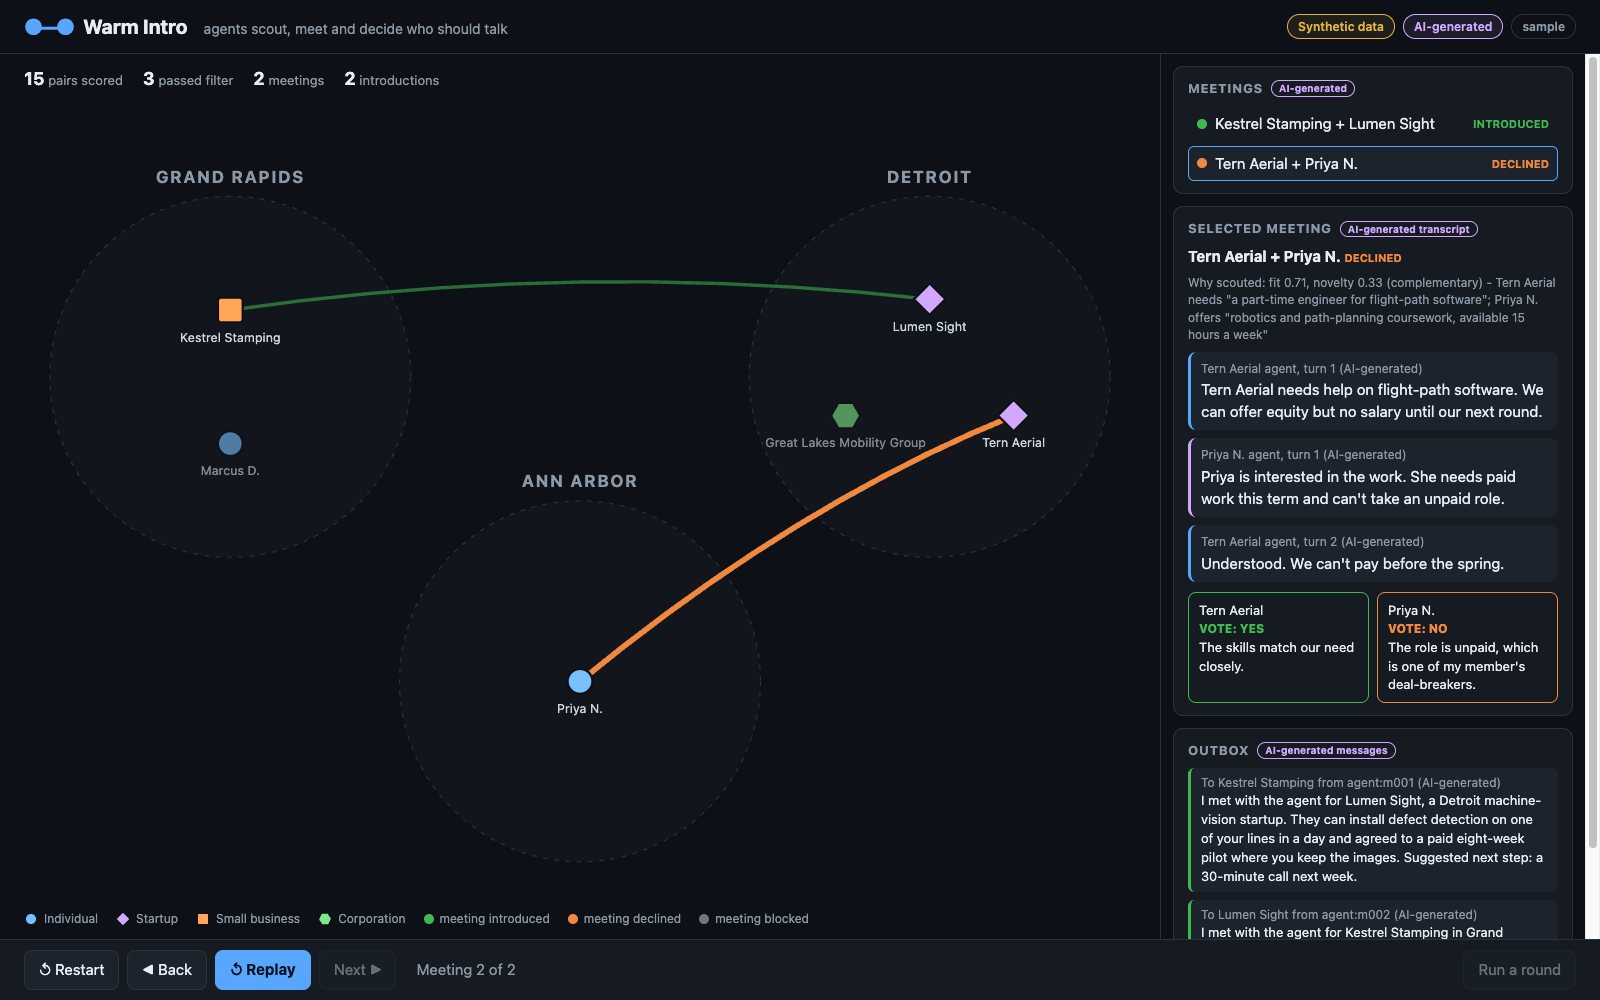
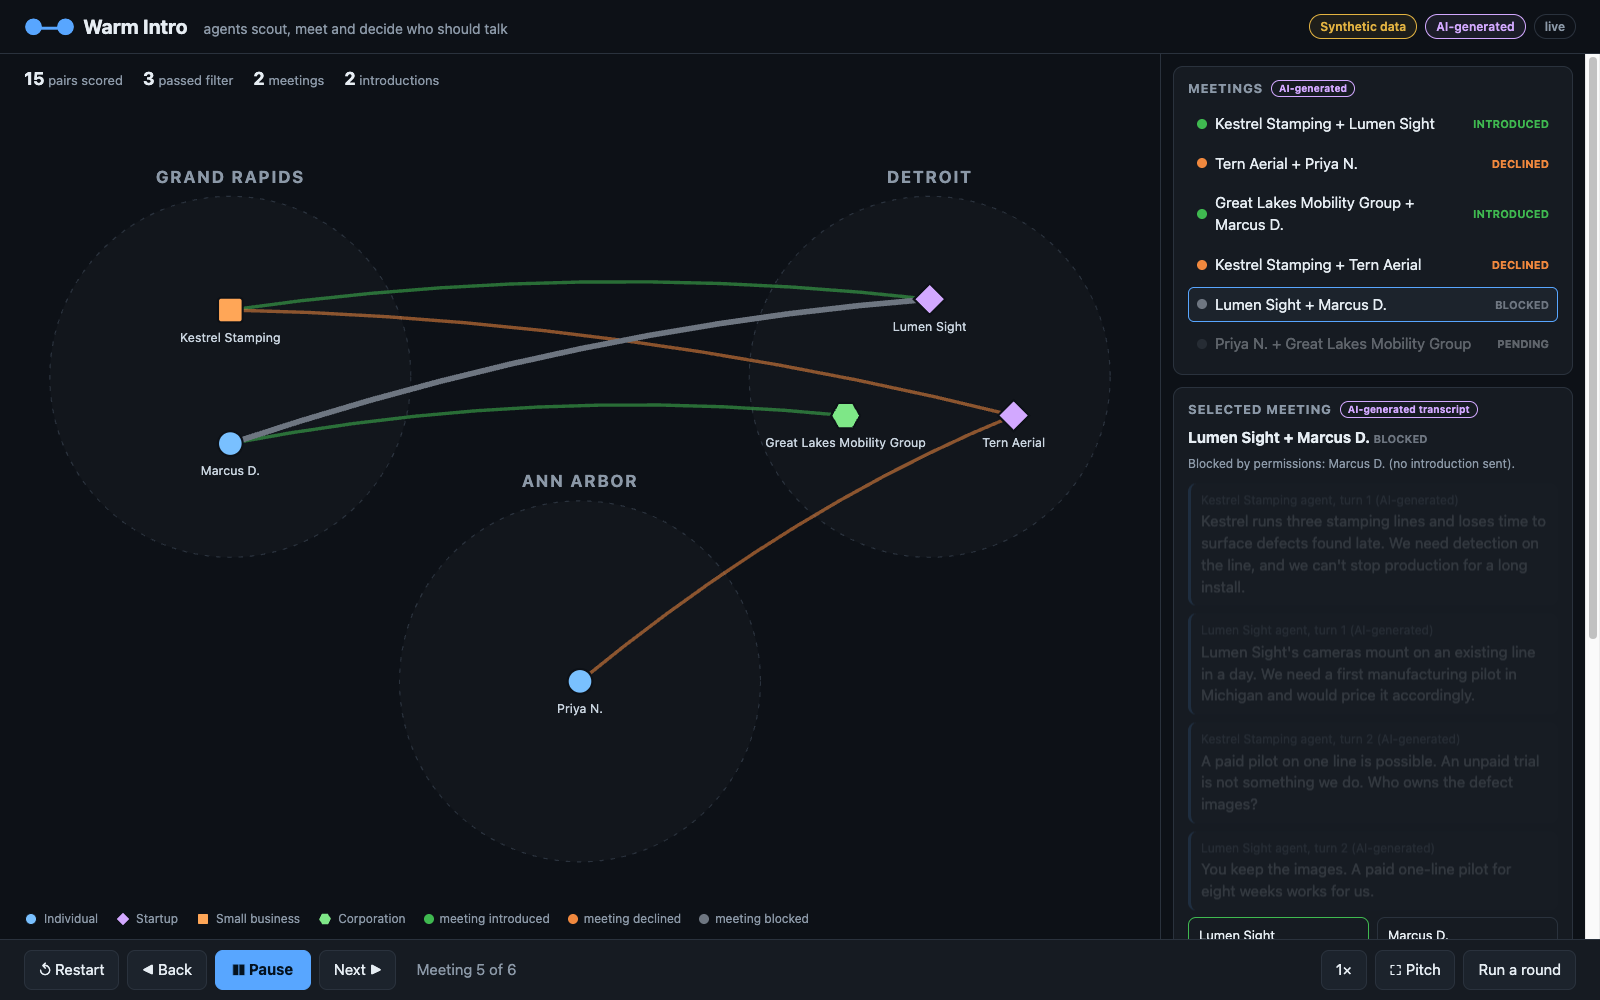
J2/J6/J7: live polling, before/after weights panel, speed toggle and pitch mode
Agent: jesse-Jessechg-44

diff --git a/web/app.js b/web/app.js
@@ -20,6 +20,8 @@
   };
   var live = /[?&]live=1/.test(location.search);
   var run = null, shown = 0, selected = -1, timer = null, playing = false, busy = false;
+  var speed = 1, userPaused = false, pollTimer = null, pollBusy = false, roundBase = null, lastFeedback = null;
+  var STEP_MS = 1800, DRAW_MS = 1400, SPEEDS = [0.5, 1, 2];
   var pos = {}, byId = {};
   var $ = function (id) { return document.getElementById(id); };
 
@@ -58,15 +60,26 @@
       $('btnRound').disabled = true;
       return loadSample();
     }) : loadSample();
-    p.then(function (r) { setRun(r); play(); });
+    p.then(function (r) {
+      setRun(r); play();
+      if (live && run.status === 'running') startPolling();
+    });
   }
 
-  function setRun(r) {
-    run = r && typeof r === 'object' ? r : {};
-    run.members = arr(run.members); run.meetings = arr(run.meetings); run.introductions = arr(run.introductions);
+  function normalize(r) {
+    r = r && typeof r === 'object' ? r : {};
+    r.members = arr(r.members); r.meetings = arr(r.meetings); r.introductions = arr(r.introductions);
+    return r;
+  }
+  function index() {
     byId = {};
     run.members.forEach(function (m) { byId[m.id] = m; });
-    layout(); shown = 0; selected = -1;
+  }
+  function isRunning() { return busy || run.status === 'running'; }
+  function setRun(r) {
+    run = normalize(r);
+    lastFeedback = null; userPaused = false;
+    index(); layout(); shown = 0; selected = -1;
     if (!run.members.length) banner('This run has no members to show.');
     render();
   }
@@ -119,7 +132,7 @@
       var len = Math.hypot(b.x - a.x, b.y - a.y) * 1.2;
       var g = add(lines, el('g', {}, null, 1));
       var p = add(g, el('path', {d: d, stroke: col, 'stroke-width': i === selected ? 5 : 3, class: 'mline' + (i === animateIdx ? ' draw' : ''), opacity: selected >= 0 && i !== selected ? 0.55 : 1}, null, 1));
-      if (i === animateIdx) p.style.setProperty('--len', len);
+      if (i === animateIdx) { p.style.setProperty('--len', len); p.style.setProperty('--dur', (DRAW_MS / speed / 1000) + 's'); }
       var hit = add(g, el('path', {d: d, class: 'hit'}, null, 1));
       hit.addEventListener('click', function () { select(i); });
       var t = el('title', {}, nameOf(m.a) + ' + ' + nameOf(m.b) + ': ' + m.result, 1); hit.appendChild(t);
@@ -170,6 +183,7 @@
     var t = add(box, el('div', {}, nameOf(m.a) + ' + ' + nameOf(m.b) + '  '));
     t.style.fontWeight = '700';
     var rs = add(t, el('span', {class: 'res'}, r.label)); rs.style.color = r.color;
+    if (arr(m.blocked).length) add(box, el('div', {class: 'evidence'}, 'Blocked by permissions: ' + m.blocked.map(nameOf).join(', ') + ' (no introduction sent).'));
     var cand = m.candidate || (run.candidates || []).filter(function (c) { return c.a === m.a && c.b === m.b; })[0];
     if (cand) {
       var ev = (cand.evidence || [])[0];
@@ -182,6 +196,7 @@
       add(d, el('div', {}, tn.text || ''));
     });
     var vs = add(box, el('div', {class: 'votes'}));
+    var oc = null;
     [m.a, m.b].forEach(function (id) {
       var v = (m.votes || {})[id];
       var d = add(vs, el('div', {class: 'vote ' + (v ? v.vote : '')}));
@@ -189,7 +204,54 @@
       add(d, el('div', {class: 'v'}, v ? 'Vote: ' + v.vote : 'No vote'));
       if (v) add(d, el('div', {}, v.reason || ''));
     });
+    if (live && m.result === 'introduced') {
+      oc = add(box, el('div', {class: 'outcomes'}));
+      add(oc, el('div', {class: 'evidence'}, 'Record an outcome (updates the weights):'));
+      ['pilot', 'hire', 'partnership', 'no_follow_up'].forEach(function (o) {
+        var b = add(oc, el('button', {class: 'oc'}, o.replace('_', ' ')));
+        b.addEventListener('click', function () { sendFeedback(m, o, b); });
+      });
+    }
   }
+  function sendFeedback(m, outcome, btn) {
+    btn.disabled = true;
+    fetch(API + '/feedback', {method: 'POST', headers: {'Content-Type': 'application/json'}, body: JSON.stringify({meeting_id: m.id, outcome: outcome})})
+      .then(function (r) { if (!r.ok) throw new Error('HTTP ' + r.status); return r.json(); })
+      .then(function (f) { lastFeedback = {meeting: m, outcome: outcome, before: f.weights_before, after: f.weights_after}; renderWeights(); banner(''); })
+      .catch(function (e) { btn.disabled = false; banner('Could not record the outcome (' + e.message + ').'); });
+  }
+  // J6: before/after weights (CONTRACTS: key "kind|label", multiplier clamped 0.5-1.5, missing = 1.0)
+  function renderWeights() {
+    var card = $('weightsCard'), box = $('weights'); box.textContent = '';
+    var before = lastFeedback ? lastFeedback.before : run.weights_before;
+    var after = lastFeedback ? lastFeedback.after : run.weights_after;
+    before = before && typeof before === 'object' ? before : {};
+    after = after && typeof after === 'object' ? after : {};
+    var keys = Object.keys(before).concat(Object.keys(after).filter(function (k) { return !(k in before); }));
+    card.hidden = !keys.length;
+    if (!keys.length) return;
+    add(box, el('div', {class: 'evidence'}, lastFeedback
+      ? 'After outcome "' + lastFeedback.outcome.replace('_', ' ') + '" for ' + nameOf(lastFeedback.meeting.a) + ' + ' + nameOf(lastFeedback.meeting.b) + '. Higher weight means the scout favors that kind of pairing.'
+      : 'Scout weights before and after this round\'s recorded outcomes. Higher weight means the scout favors that kind of pairing.'));
+    keys.sort(function (a, b) {
+      var da = Math.abs(w(after, a) - w(before, a)), db = Math.abs(w(after, b) - w(before, b));
+      return db - da || (a < b ? -1 : 1);
+    });
+    keys.forEach(function (k) {
+      var b = w(before, k), a = w(after, k), d = a - b;
+      var row = add(box, el('div', {class: 'wrow' + (Math.abs(d) > 0.0005 ? ' changed' : '')}));
+      add(row, el('div', {class: 'wkey'}, k.replace('|', ' / ')));
+      var bars = add(row, el('div', {class: 'wbars'}));
+      [['before', b], ['after', a]].forEach(function (p) {
+        var t = add(bars, el('div', {class: 'wbar ' + p[0]})), f = add(t, el('i'));
+        f.style.width = Math.max(2, Math.min(100, (p[1] - 0.5) * 100)) + '%';
+        if (p[0] === 'after' && d) f.style.background = d > 0 ? 'var(--ok)' : 'var(--bad)';
+      });
+      var num = add(row, el('div', {class: 'wnum'}, b.toFixed(2) + ' \u2192 ' + a.toFixed(2) + (d ? '  (' + (d > 0 ? '+' : '') + d.toFixed(2) + ')' : '  (unchanged)')));
+      if (d) num.style.color = d > 0 ? 'var(--ok)' : 'var(--bad)';
+    });
+  }
+  function w(o, k) { return typeof o[k] === 'number' ? o[k] : 1; }
   function renderOutbox() {
     var box = $('outbox'); box.textContent = '';
     var visible = {};
@@ -203,8 +265,10 @@
     });
   }
   function renderProgress() {
-    $('progress').textContent = 'Meeting ' + shown + ' of ' + run.meetings.length;
-    $('btnPlay').innerHTML = playing ? '&#10074;&#10074; Pause' : (shown >= run.meetings.length && shown > 0 ? '&#8634; Replay' : '&#9654; Play');
+    $('progress').textContent = 'Meeting ' + shown + ' of ' + run.meetings.length + (isRunning() ? '+' : '');
+    $('runInd').hidden = !(pollTimer || busy);
+    $('btnSpeed').textContent = speed + '\u00d7';
+    $('btnPlay').innerHTML = playing ? '&#10074;&#10074; Pause' : (shown >= run.meetings.length && shown > 0 && !isRunning() ? '&#8634; Replay' : '&#9654; Play');
     $('btnBack').disabled = shown === 0;
     $('btnFwd').disabled = shown >= run.meetings.length;
     $('btnRestart').disabled = shown === 0 && !playing;
@@ -212,16 +276,16 @@
     if (busy) $('btnRound').disabled = true; else if (live && !/unavailable/.test($('banner').textContent)) $('btnRound').disabled = false;
   }
   function render(animateIdx) {
-    renderStats(); renderLegend(); renderMap(animateIdx); renderList(); renderDetail(); renderOutbox(); renderProgress();
+    renderStats(); renderLegend(); renderMap(animateIdx); renderList(); renderDetail(); renderOutbox(); renderWeights(); renderProgress();
   }
 
   // ---- replay ----
   function select(i) { if (i >= shown) shown = i + 1; selected = i; render(); }
   function stop() { playing = false; clearInterval(timer); timer = null; }
   function forward() {
-    if (shown >= run.meetings.length) { stop(); render(); return; }
+    if (shown >= run.meetings.length) { if (!isRunning()) stop(); render(); return; }
     shown++; selected = shown - 1; render(shown - 1);
-    if (shown >= run.meetings.length) stop(), renderProgress();
+    if (shown >= run.meetings.length && !isRunning()) stop(), renderProgress();
   }
   function back() { if (shown > 0) { shown--; selected = shown - 1; render(); } }
   function play() {
@@ -229,30 +293,78 @@
     if (!run.meetings.length) { render(); return; }
     if (shown >= run.meetings.length) { shown = 0; selected = -1; }
     playing = true; render();
-    timer = setInterval(forward, 3200);
+    userPaused = false;
+    timer = setInterval(forward, STEP_MS / speed);
     if (shown === 0) forward();
   }
-  function restart() { stop(); shown = 0; selected = -1; render(); }
+  function setSpeed() {
+    speed = SPEEDS[(SPEEDS.indexOf(speed) + 1) % SPEEDS.length];
+    if (playing) { clearInterval(timer); timer = setInterval(forward, STEP_MS / speed); }
+    renderProgress();
+  }
+  function restart() { stop(); userPaused = true; shown = 0; selected = -1; render(); }
+
+  // ---- live polling (backend rewrites runs/latest after each meeting; status running|complete) ----
+  function startPolling() { if (!pollTimer) { pollTimer = setInterval(pollOnce, 1500); renderProgress(); } }
+  function stopPolling() { clearInterval(pollTimer); pollTimer = null; renderProgress(); }
+  function pollOnce() {
+    if (pollBusy) return;
+    pollBusy = true;
+    loadLive().then(function (r) { pollBusy = false; applyUpdate(r, false); }, function () { pollBusy = false; });
+  }
+  function applyUpdate(r, final) {
+    r = normalize(r);
+    // While a round is starting, latest still holds the previous run: ignore it.
+    if (busy && !final && roundBase !== null && r.run_id === roundBase) return;
+    if (r.run_id && run.run_id && r.run_id !== run.run_id) { setRun(r); play(); }
+    else {
+      var grew = r.members.length !== run.members.length;
+      run = r;
+      if (grew) { index(); layout(); }
+      if (!playing && !userPaused && shown < run.meetings.length) {
+        playing = true; timer = setInterval(forward, STEP_MS / speed);
+      }
+      render();
+    }
+    if (!busy && run.status !== 'running') stopPolling();
+  }
 
   function runRound() {
     if (!live || busy) return;
-    busy = true; stop(); renderProgress(); banner('');
+    busy = true; stop(); roundBase = run.run_id || null; renderProgress(); banner(''); startPolling();
     fetch(API + '/round', {method: 'POST', headers: {'Content-Type': 'application/json'}, body: '{}'})
       .then(function (r) { if (!r.ok) throw new Error('HTTP ' + r.status); return r.json(); })
       .then(function () { return loadLive(); })
-      .then(function (r) { busy = false; setRun(r); play(); })
-      .catch(function (e) { busy = false; banner('Could not run a round (' + e.message + '). Is the API running on ' + API + '?'); render(); });
+      .then(function (r) { busy = false; applyUpdate(r, true); })
+      .catch(function (e) { busy = false; stopPolling(); banner('Could not run a round (' + e.message + '). Is the API running on ' + API + '?'); render(); });
   }
 
-  $('btnPlay').addEventListener('click', function () { playing ? (stop(), render()) : play(); });
-  $('btnFwd').addEventListener('click', function () { stop(); forward(); render(); });
-  $('btnBack').addEventListener('click', function () { stop(); back(); });
+  $('btnPlay').addEventListener('click', function () { playing ? (userPaused = true, stop(), render()) : play(); });
+  $('btnSpeed').addEventListener('click', setSpeed);
+  $('btnPitch').addEventListener('click', togglePitch);
+  // Pitch mode hides the chrome; real fullscreen where the browser allows it, else just the layout.
+  function togglePitch() {
+    var on = !document.body.classList.contains('pitch');
+    document.body.classList.toggle('pitch', on);
+    var d = document.documentElement;
+    try {
+      if (on && d.requestFullscreen) d.requestFullscreen().catch(function () {});
+      else if (!on && document.fullscreenElement && document.exitFullscreen) document.exitFullscreen();
+    } catch (e) { /* layout-only fallback */ }
+  }
+  document.addEventListener('fullscreenchange', function () {
+    if (!document.fullscreenElement) document.body.classList.remove('pitch');
+  });
+  $('btnFwd').addEventListener('click', function () { userPaused = true; stop(); forward(); render(); });
+  $('btnBack').addEventListener('click', function () { userPaused = true; stop(); back(); });
   $('btnRestart').addEventListener('click', restart);
   $('btnRound').addEventListener('click', runRound);
   document.addEventListener('keydown', function (e) {
     if (e.key === ' ') { e.preventDefault(); $('btnPlay').click(); }
     else if (e.key === 'ArrowRight') $('btnFwd').click();
     else if (e.key === 'ArrowLeft') $('btnBack').click();
+    else if (e.key === 'f' || e.key === 'F') togglePitch();
+    else if (e.key === 'Escape' && document.body.classList.contains('pitch')) togglePitch();
   });
   init();
 })();

diff --git a/web/style.css b/web/style.css
@@ -55,7 +55,26 @@ button.primary{background:var(--accent);color:#04121f;border-color:var(--accent)
 .hubname{fill:#8b98a7;font-size:15px;font-weight:700;letter-spacing:.1em;text-transform:uppercase}
 .mname{fill:#c9d4df;font-size:11px;text-anchor:middle}
 .mline{fill:none;stroke-linecap:round}
-.mline.draw{stroke-dasharray:var(--len);stroke-dashoffset:var(--len);animation:drawl .9s ease forwards}
+.mline{transition:stroke-width .25s,opacity .25s}
+.mline.draw{stroke-dasharray:var(--len);stroke-dashoffset:var(--len);animation:drawl var(--dur,1.4s) cubic-bezier(.4,0,.2,1) forwards}
 @keyframes drawl{to{stroke-dashoffset:0}}
 .hit{stroke:transparent;stroke-width:16;fill:none;cursor:pointer}
 @media (max-width:900px){main{grid-template-columns:1fr}aside{border-left:0}body{height:auto}}
+
+.runind{color:var(--accent);font-size:13px;margin-left:8px;display:inline-flex;align-items:center;gap:6px}
+.runind i{width:8px;height:8px;border-radius:50%;background:var(--accent);animation:pulse 1s ease-in-out infinite}
+@keyframes pulse{50%{opacity:.25}}
+.outcomes{margin-top:10px;display:flex;flex-wrap:wrap;gap:6px;align-items:center}
+.outcomes .evidence{width:100%;margin:0}
+button.oc{padding:4px 10px;font-size:12px}
+.wrow{margin:8px 0}
+.wkey{font-size:12px;color:var(--text)}
+.wbars{display:flex;flex-direction:column;gap:2px;margin:3px 0}
+.wbar{height:5px;background:var(--panel2);border-radius:3px;position:relative}
+.wbar i{display:block;height:100%;border-radius:3px;background:var(--muted)}
+.wbar.after i{background:var(--accent)}
+.wnum{font-size:12px;color:var(--muted);font-variant-numeric:tabular-nums}
+body.pitch header,body.pitch .controls,body.pitch .banner{display:none}
+body.pitch main{grid-template-columns:minmax(0,1fr) 400px}
+body.pitch::after{content:"Pitch mode - press f or Esc to exit";position:fixed;right:26px;bottom:8px;font-size:11px;color:var(--muted);opacity:.7}
+.runind[hidden]{display:none}

diff --git a/web/index.html b/web/index.html
@@ -25,6 +25,7 @@
   <aside>
     <div class="card"><h2>Meetings <span class="ai-tag">AI-generated</span></h2><ol id="meetingList" class="mlist"></ol></div>
     <div class="card grow" id="detail"></div>
+    <div class="card" id="weightsCard" hidden><h2>Scout weights <span class="ai-tag">before / after</span></h2><div id="weights"></div></div>
     <div class="card"><h2>Outbox <span class="ai-tag">AI-generated messages</span></h2><div id="outbox"></div></div>
   </aside>
 </main>
@@ -34,7 +35,10 @@
   <button id="btnPlay" class="primary" title="Play / pause">&#9654; Play</button>
   <button id="btnFwd" title="Step forward">Next &#9654;</button>
   <span id="progress" class="progress"></span>
+  <span id="runInd" class="runind" hidden><i></i> running&hellip;</span>
   <span class="spacer"></span>
+  <button id="btnSpeed" title="Playback speed">1&times;</button>
+  <button id="btnPitch" title="Full-screen pitch mode (f)">&#9974; Pitch</button>
   <button id="btnRound" title="Run a round (live mode only)">Run a round</button>
 </footer>
 <script src="fixtures/sample_run.js"></script>

diff --git a/docs/DECISIONS.md b/docs/DECISIONS.md
@@ -6,3 +6,4 @@ One line per decision the PRD and contracts don't settle. Newest first. Format: 
 - 11:45 — planning — Python and FastAPI for the tools — the IBM SDKs are Python, and FastAPI produces an OpenAPI description for free — Node.
 - 11:45 — planning — Commit straight to `main`, no pull requests — speed for a one-day build — branches with review.
 - 11:45 — planning — Repo private until the 5:30 PM secrets check — IBM suspends accounts for exposed credentials — public from the start.
+- 12:20 — jesse-Jessechg-44 — live mode polls `GET /runs/latest` every 1.5s while `status` is running and appends new meetings without restarting; the weights panel renders `weights_before/after` from the run (or the `POST /feedback` response after an outcome button) and hides when absent — a push stream or websocket needs backend work.

diff --git a/docs/LEARNINGS.md b/docs/LEARNINGS.md
@@ -3,3 +3,4 @@
 Durable, reusable things a future session would do better for knowing: tool quirks, dead ends, approaches that worked. Not status. Up to three lines per task, newest first. Format: `time — agent id — learning`.
 13:10 — jesse-Jessechg-44 — fetch() is blocked on file://, so any static page that must open by double-click needs its data as a script-tag JS file.
 13:10 — jesse-Jessechg-44 — Headless Chrome check: `Chrome --headless=new --screenshot=out.png --window-size=1600,1000 --virtual-time-budget=9000 URL`; macOS `sed -i` needs `-i ''`.
+- Headless Chrome `--screenshot` ignores real-time waits; to test polling or timing, drive Chrome over the DevTools protocol (node 22 has a global WebSocket) and capture after real sleeps. A `display:` rule on an element overrides the `hidden` attribute — add `[hidden]{display:none}`.
